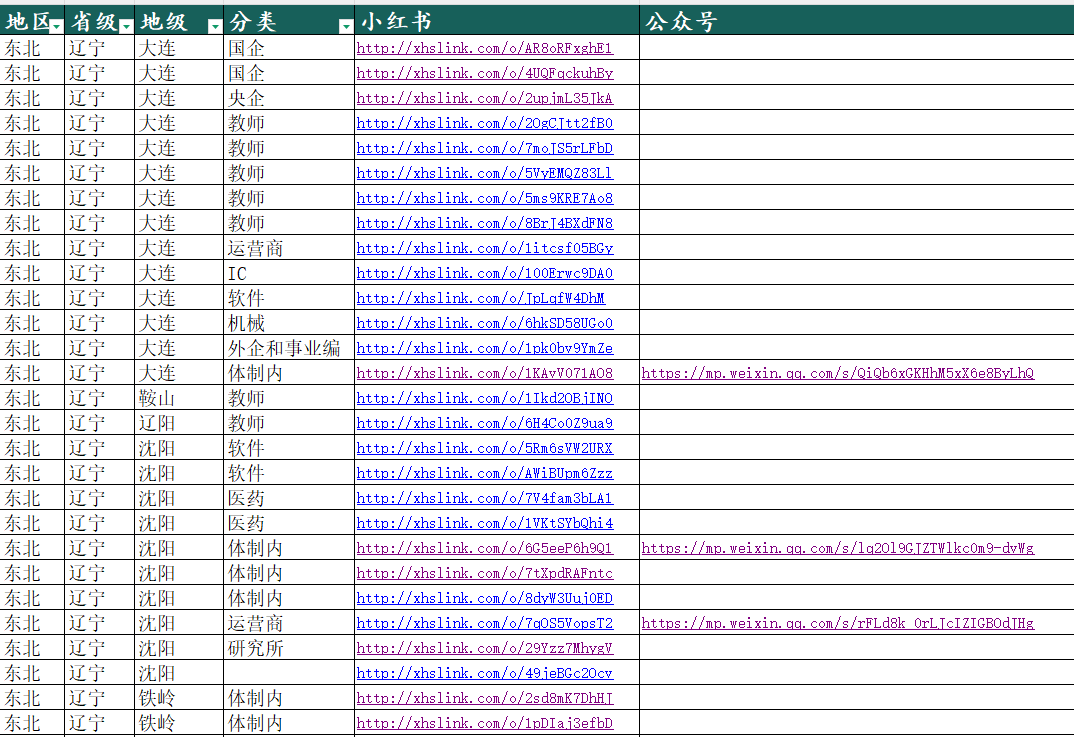
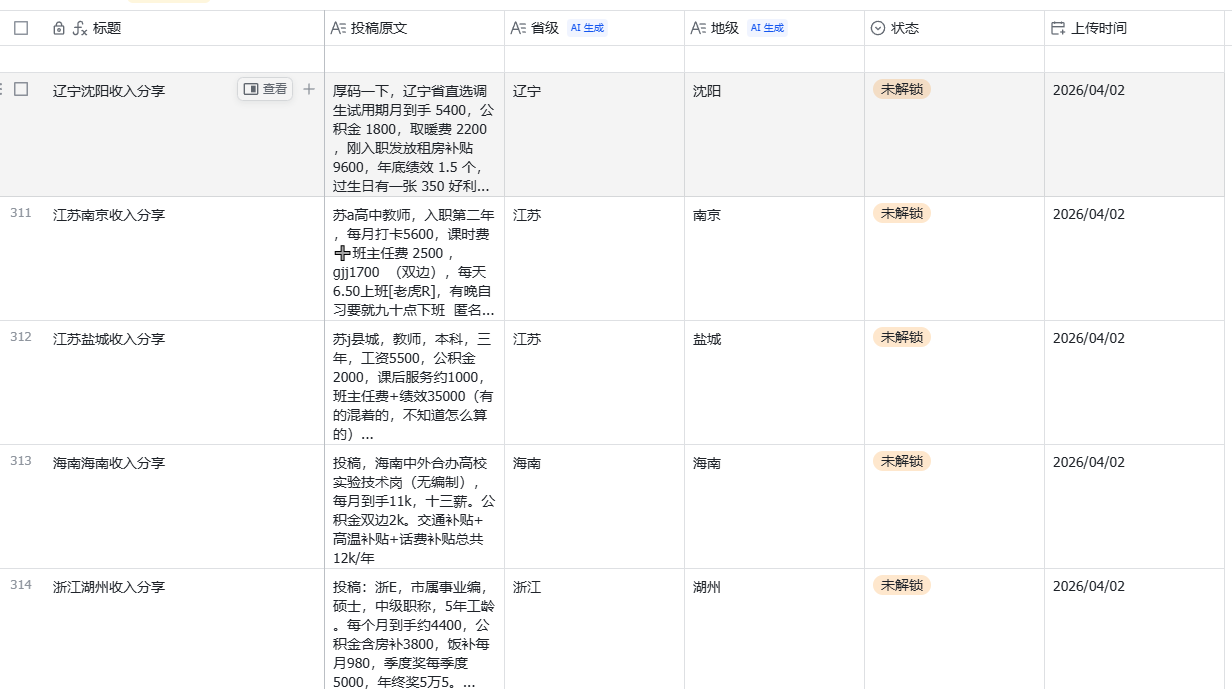
docs: 更新README中的网盘链接为飞书表格
将GitHub资料存储位置从网盘更新为飞书表格，并提供相应截图

diff --git a/README.md b/README.md
@@ -4,7 +4,7 @@
 
 当无数微光汇聚，就能照亮一条更清晰的路。
 
-由于GitHub经常打不开，所以资料上传到网盘了。
+由于GitHub经常打不开，所以资料上传到飞书表格了。
 ![文件](file.png)
 
 迅雷：https://pan.xunlei.com/s/VOl1pu0eD03GoiPFyloDBFhkA1?pwd=ji44#
